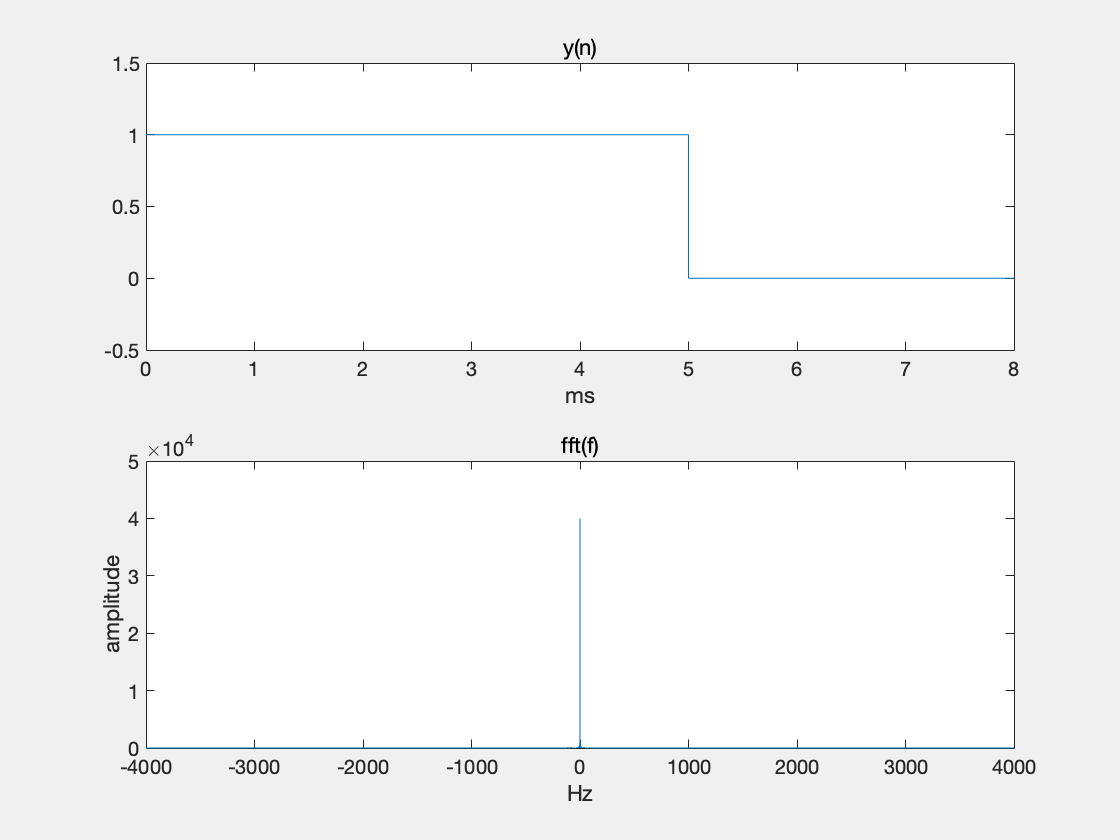
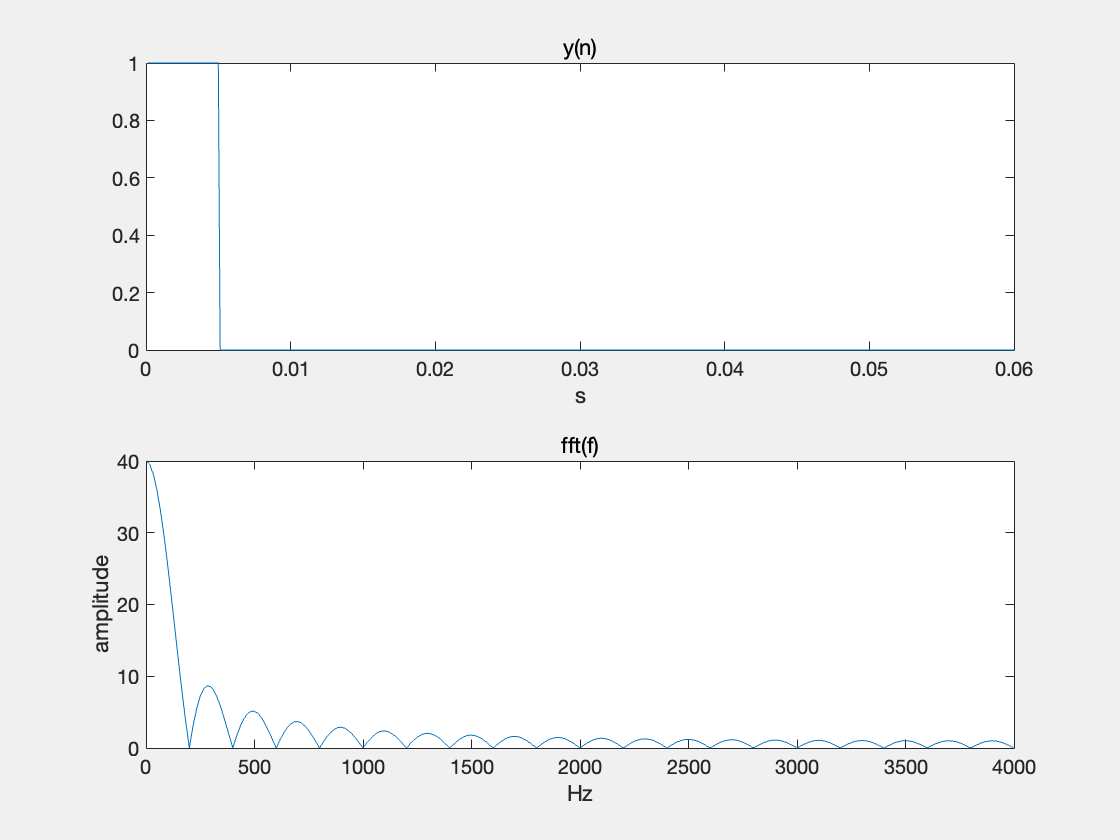
corrigé

diff --git a/Semaine3/Problems2/src/functions/FunctionA.m b/Semaine3/Problems2/src/functions/FunctionA.m
@@ -2,27 +2,28 @@ function FunctionA()
   Fe = 8000;
   Te = 1/Fe;
   y = [];
-  D = 8;%8ms
-  t = 0:Te:D;
+  D = 0.006;
+  n = 1 : 480;
+  t = Te*n;
   for temp = t
-    if((0<=temp) && (temp<=5))
-      y = [y,1];
+    if((0<=temp) && (temp<=0.005))
+      y = [y 1];
     else
-      y = [y,0];
+      y = [y 0];
     end
   end
   figure;
   subplot(2,1,1);
   plot(t,y);
   title('y(n)')
-  xlabel('ms');
-  ylim([-0.5,1.5]);
+  xlabel('s');
   Y = fft(y);
   N = length(y);
-  f = (-N/2:N/2-1)*(Fe/N);
-  Y_shifted = fftshift(Y);
+  f = (0:N-1)*(Fe/N);
+  %Y_shifted = fftshift(Y);
   subplot(2,1,2);
-  plot(f,abs(Y_shifted));
+  plot(f,abs(Y));
+  xlim([0 4000]);
   title('fft(f)')
   xlabel('Hz');
   ylabel('amplitude');
